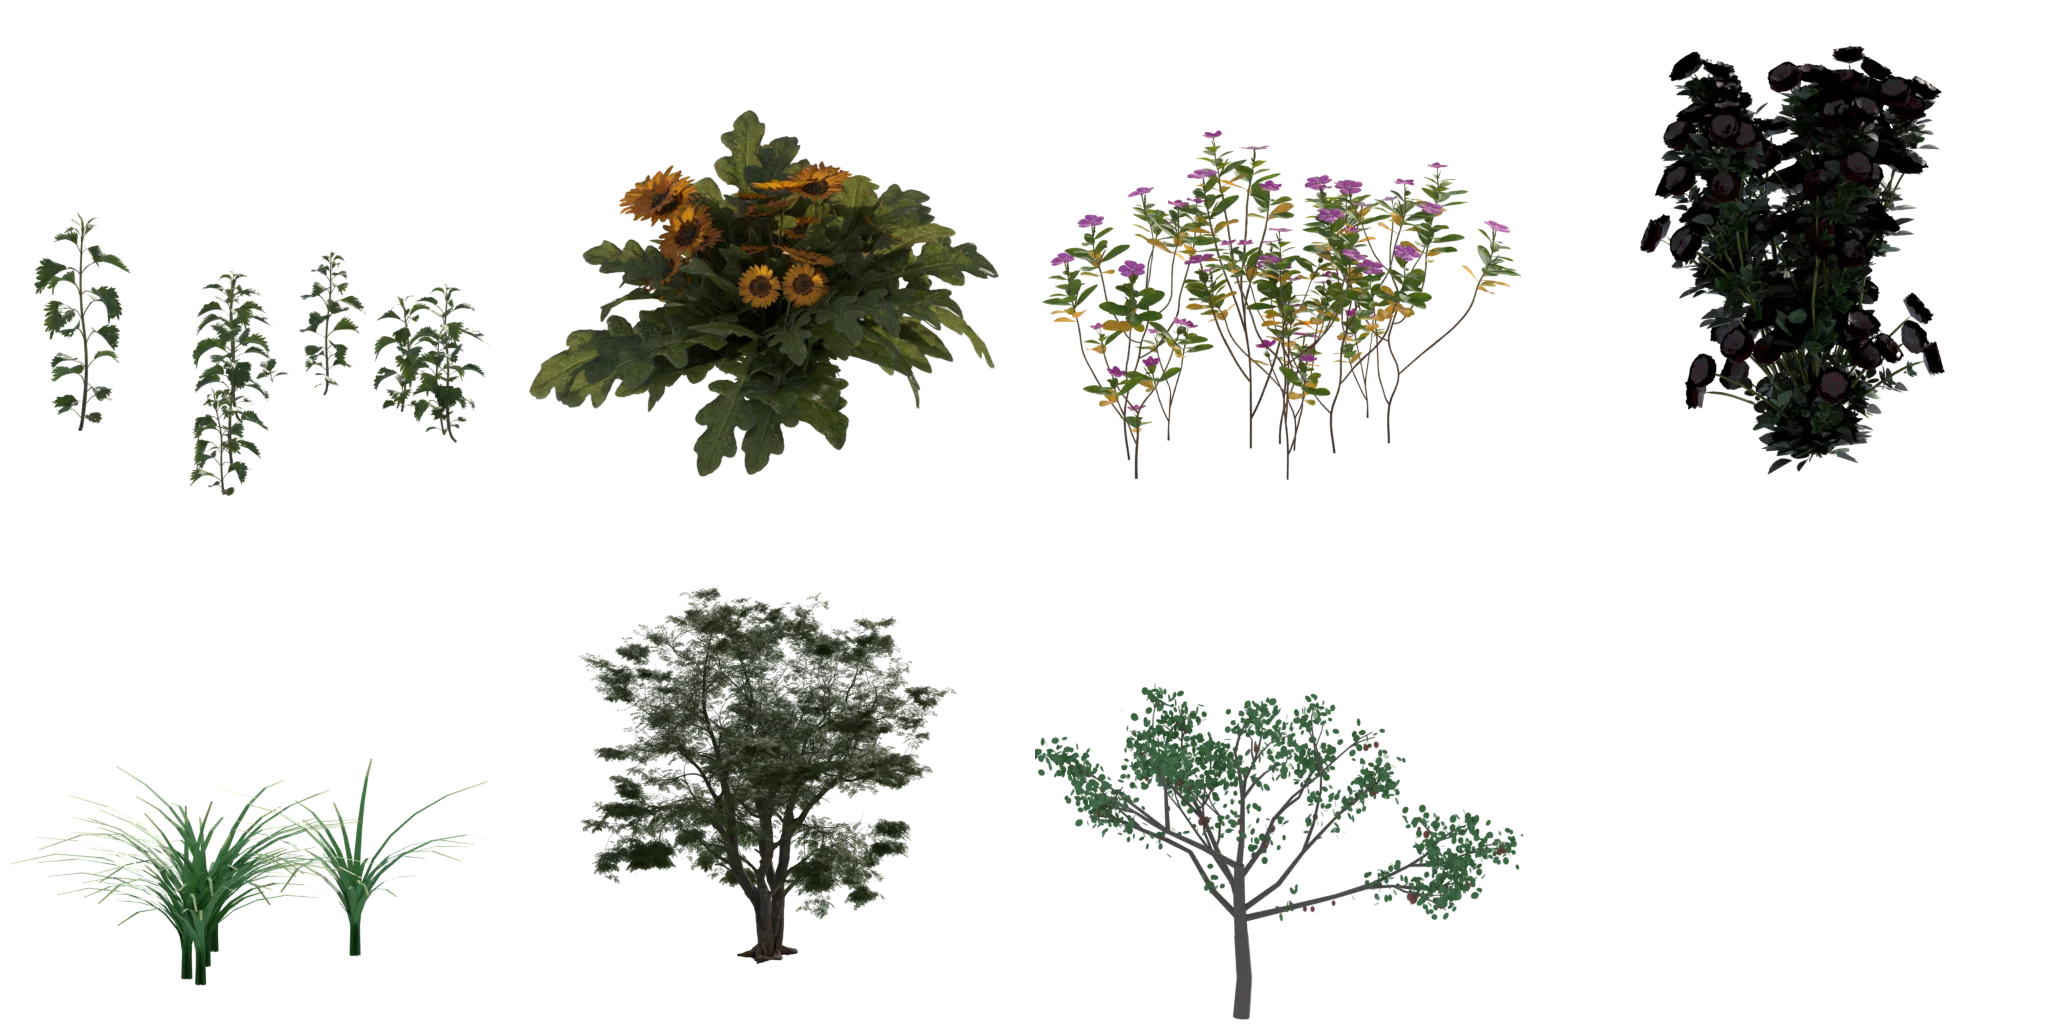
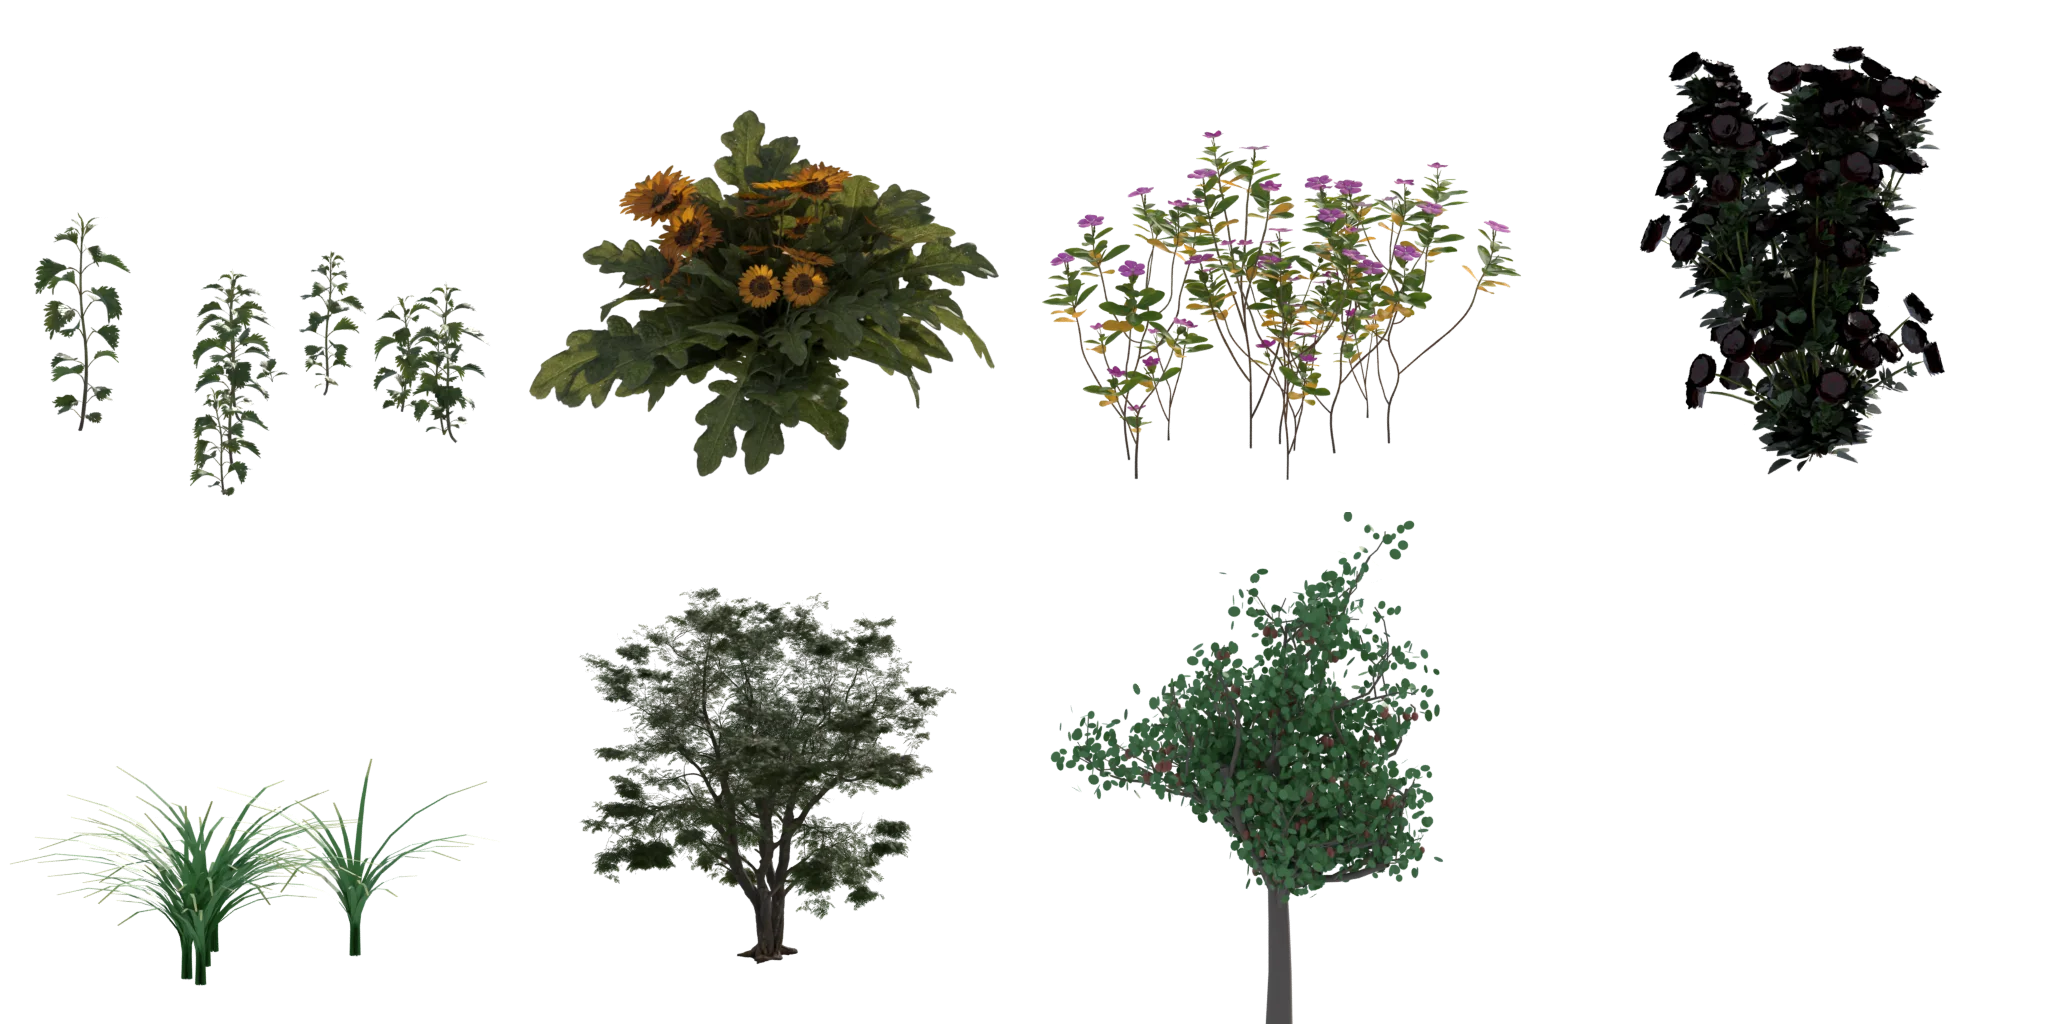
feat: fuller angular pear centered in its circle; drop outdoor noise beds

Changed region(s): [[0.5, 0.5, 0.75, 1.0]]

diff --git a/src/app/public/js/white-rabbit-sound.js b/src/app/public/js/white-rabbit-sound.js
@@ -4,7 +4,7 @@
 // Imported by white-rabbit.js after a catch, with an AudioContext made in that same click
 // or tap. Apart from the glitch as the rain stops, it is silent until the scroll out of the TV begins. The tube's low mains hum and
 // faint whine, static while the screen shows snow, the room's quiet air, the
-// outdoors (a breeze, leaves rustling in gusts, birds now and then, a faint creek), and the
+// outdoors (leaves rustling in gusts and birds now and then), and the
 // glitch as the rain stops are built from oscillators, noise, and filters. The car's
 // ignition is a real V8 recording, fetched only after the car is first clicked, played
 // slower and deeper, then held on its idle, rebuilt from overlapping slices of the recording
@@ -77,7 +77,7 @@ export function createSound(ctx) {
   const air = gain();
   sources.push(hiss(filter("lowpass", 240, 0.4, air)));
 
-  // ---- Outside, through the window: a soft breeze, leaves in gusts, birds, and a faint creek ----
+  // ---- Outside, through the window: leaves in gusts and birds ----
   // Everything outside runs through one level and one lowpass, so it is muffled while the window is
   // behind the camera and opens up as the camera turns to it
   const outside = gain();
@@ -89,14 +89,8 @@ export function createSound(ctx) {
   const feed = gain(0.28, echo);
   echo.connect(damp); echo2.connect(damp); damp.connect(feed); feed.connect(echo2);
   const birdsSend = gain(0.22, echo);
-  // The breeze bed: a low, slow-moving whisper that never quite stops
-  const bed = gain(0.012, through);
-  const bedTone = filter("lowpass", 420, 0.4, bed);
-  sources.push(hiss(bedTone));
-  // A faint creek far off: babbling noise whose band wanders
-  const creek = gain(0.0035, through);
-  const creekTone = filter("bandpass", 900, 0.8, creek);
-  sources.push(hiss(creekTone));
+  // No steady breeze or creek bed: as the window opened they read as plain white noise, so the outdoors
+  // is only the rustle of leaves in the gusts and the birds
 
   // A one-shot noise grain: a leaf ticking against others, short, bright, and placed left or right
   function grain(level) {
@@ -156,11 +150,8 @@ export function createSound(ctx) {
     glide(outside.gain, level, 0.4);
     glide(through.frequency, 700 + 8000 * openness * openness, 0.3);
     if (level < 0.01) return;
-    glide(bed.gain, 0.01 + 0.012 * g, 0.5);
-    glide(bedTone.frequency, 380 + 260 * g, 0.5);
     for (let n = dt * (6 + 140 * g); n > 0; n--) if (Math.random() < n) grain(0.02 + 0.05 * g * Math.random());
     if (t > nextBird) { bird(songs[Math.random() * songs.length | 0](), Math.random()); nextBird = t + 4 + Math.random() * 11; }
-    glide(creekTone.frequency, 800 + 250 * Math.sin(t * 0.7) + 120 * Math.sin(t * 2.3), 0.1);
   }
 
   let mode = null, heard = false;

diff --git a/src/app/public/js/white-rabbit-world.js b/src/app/public/js/white-rabbit-world.js
@@ -756,7 +756,7 @@ export function createWorld({ scene, touch }) {
     const FLORA = { bush: [0.0, 0.5, 0.25, 0.8145, 1.3, 0.85], mint: [0.0, 0.5, 0.25, 0.8145, 1.0, 0.78], flowersA: [0.25, 0.5, 0.5, 0.9219, 0.75, 0.55], flowersB: [0.5, 0.5, 0.75, 0.8906, 0.85, 0.6],
       rose: [0.7964, 0.5, 0.9531, 1.0, 1.0, 1.45], andromeda: [0.2788, 0.0, 0.4707, 0.5, 3.0, 2.6], andromedaXL: [0.2788, 0.0, 0.4707, 0.5, 4.6, 4.4],
       mintLow: [0.0, 0.5, 0.25, 0.8145, 1.45, 0.42], branchy: [0.5259, 0.0, 0.7241, 0.5, 2.0, 2.7],
-      pinkrose: [0.7964, 0.5, 0.9531, 1.0, 1.3, 2.1], daylily: [0.0, 0.0, 0.25, 0.2627, 1.25, 0.62], crepe: [0.2788, 0.0, 0.4707, 0.5, 4.4, 5.8], pear: [0.5054, 0.0, 0.7437, 0.5, 8.0, 8.4] };
+      pinkrose: [0.7964, 0.5, 0.9531, 1.0, 1.3, 2.1], daylily: [0.0, 0.0, 0.25, 0.2627, 1.25, 0.62], crepe: [0.2788, 0.0, 0.4707, 0.5, 4.4, 5.8], pear: [0.5054, 0.0, 0.7437, 0.5, 5.25, 5.5] };
     const plan = [["bush", 0.03], ["bush", 0.07], ["flowersA", 0.13], ["flowersB", 0.19], ["flowersA", 0.25], ["flowersA", 0.31], ["rose", 0.39],
       ["flowersB", 0.46], ["flowersA", 0.52], ["flowersB", 0.58], ["daylily", 0.65], ["daylily", 0.71], ["daylily", 0.77], ["daylily", 0.83], ["daylily", 0.88], ["rose", 0.95]];
     const items = plan.map(([k, u]) => { path.getPointAt(u, p); return [k, p.x + (rnd() - 0.5) * 0.15, GROUND + Hb - 0.05, p.z + (rnd() - 0.5) * 0.15, 0]; });
